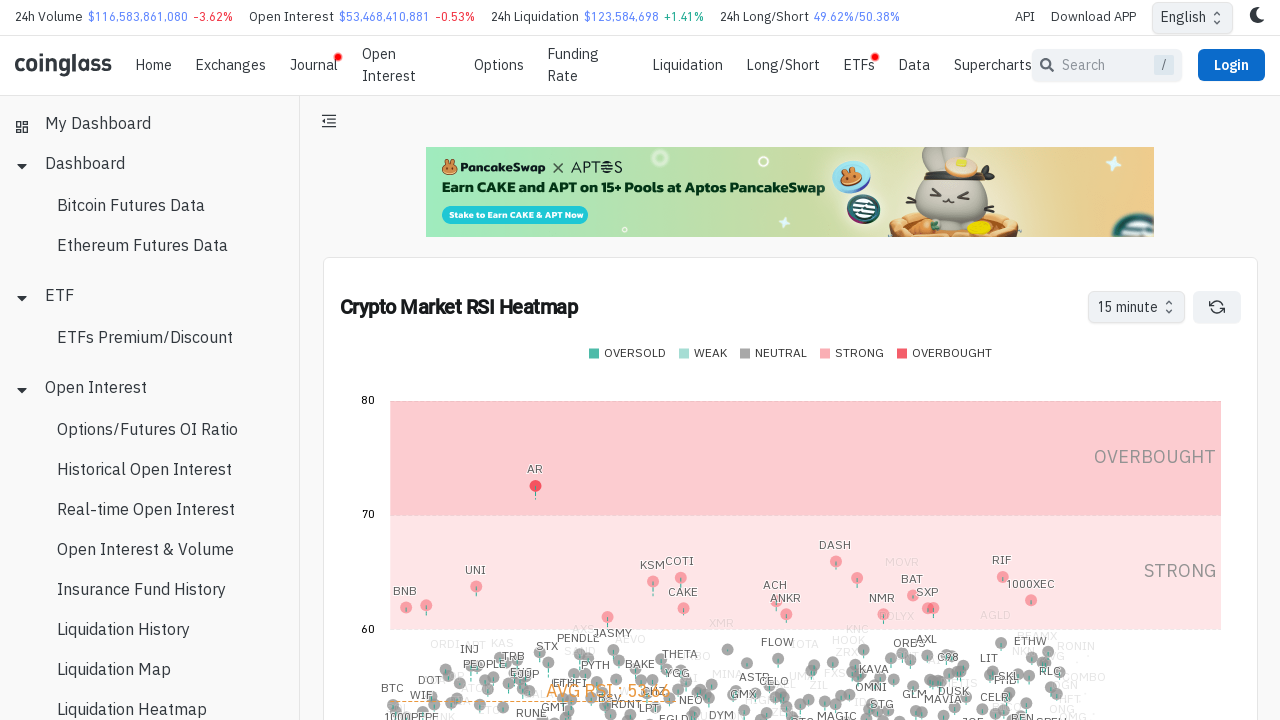
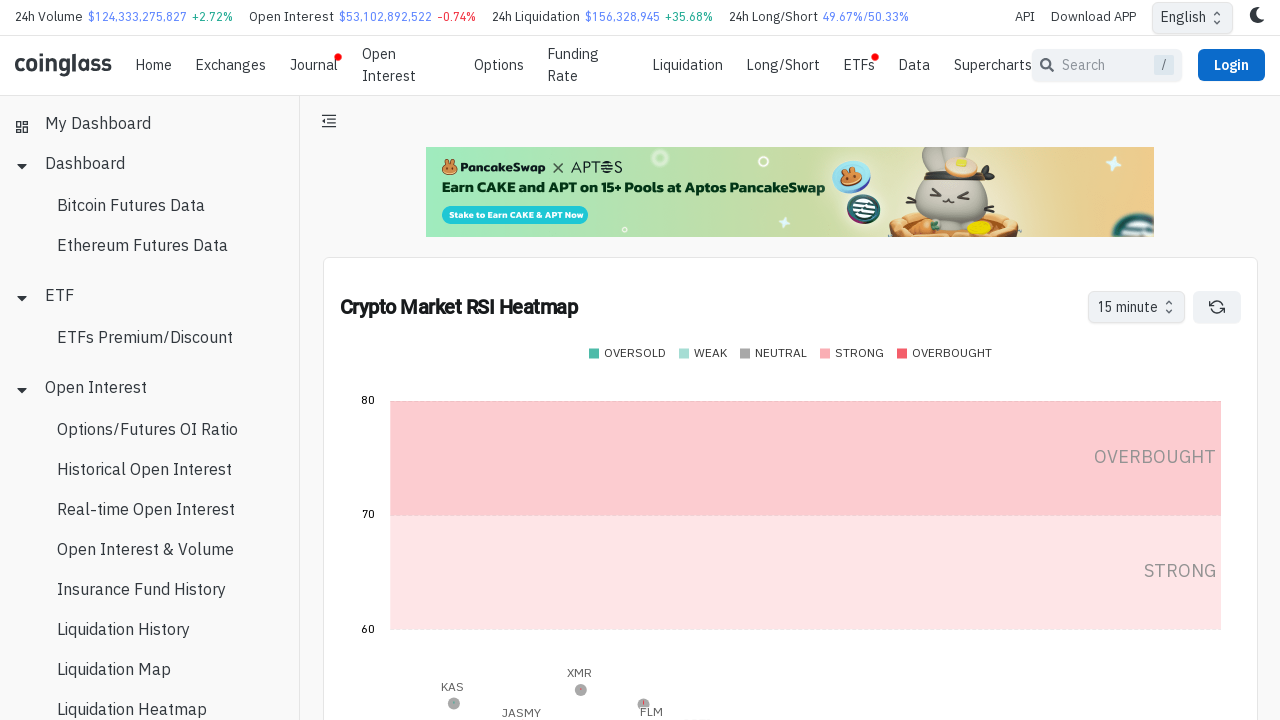
tmp check actions

diff --git a/12trackCoingGlassRSI.py b/12trackCoingGlassRSI.py
@@ -23,11 +23,11 @@ with sync_playwright() as p:
 	browser = p.chromium.launch(headless=True)
 	page = browser.new_page()
 	page.goto("https://www.coinglass.com/pro/i/RsiHeatMap")
-	page.click('button:has-text("Consent")')  # Замените селектором, который соответствует кнопке.
+	#page.click('button:has-text("Consent")')  # Замените селектором, который соответствует кнопке.
 	page.screenshot(path="12trackCoingGlassRSI.png")
-	page.click('text="4 hour"')  # Открыть выпадающий список
+	#page.click('text="4 hour"')  # Открыть выпадающий список
 	page.screenshot(path="12trackCoingGlassRSI11.png")
-	page.click('text="15 minute"')  # Выбрать опцию "15 min"
+	#page.click('text="15 minute"')  # Выбрать опцию "15 min"
 	page.screenshot(path="12trackCoingGlassRSI12.png")
 	# Подождать 4 секунды
 	page.wait_for_timeout(5000)
